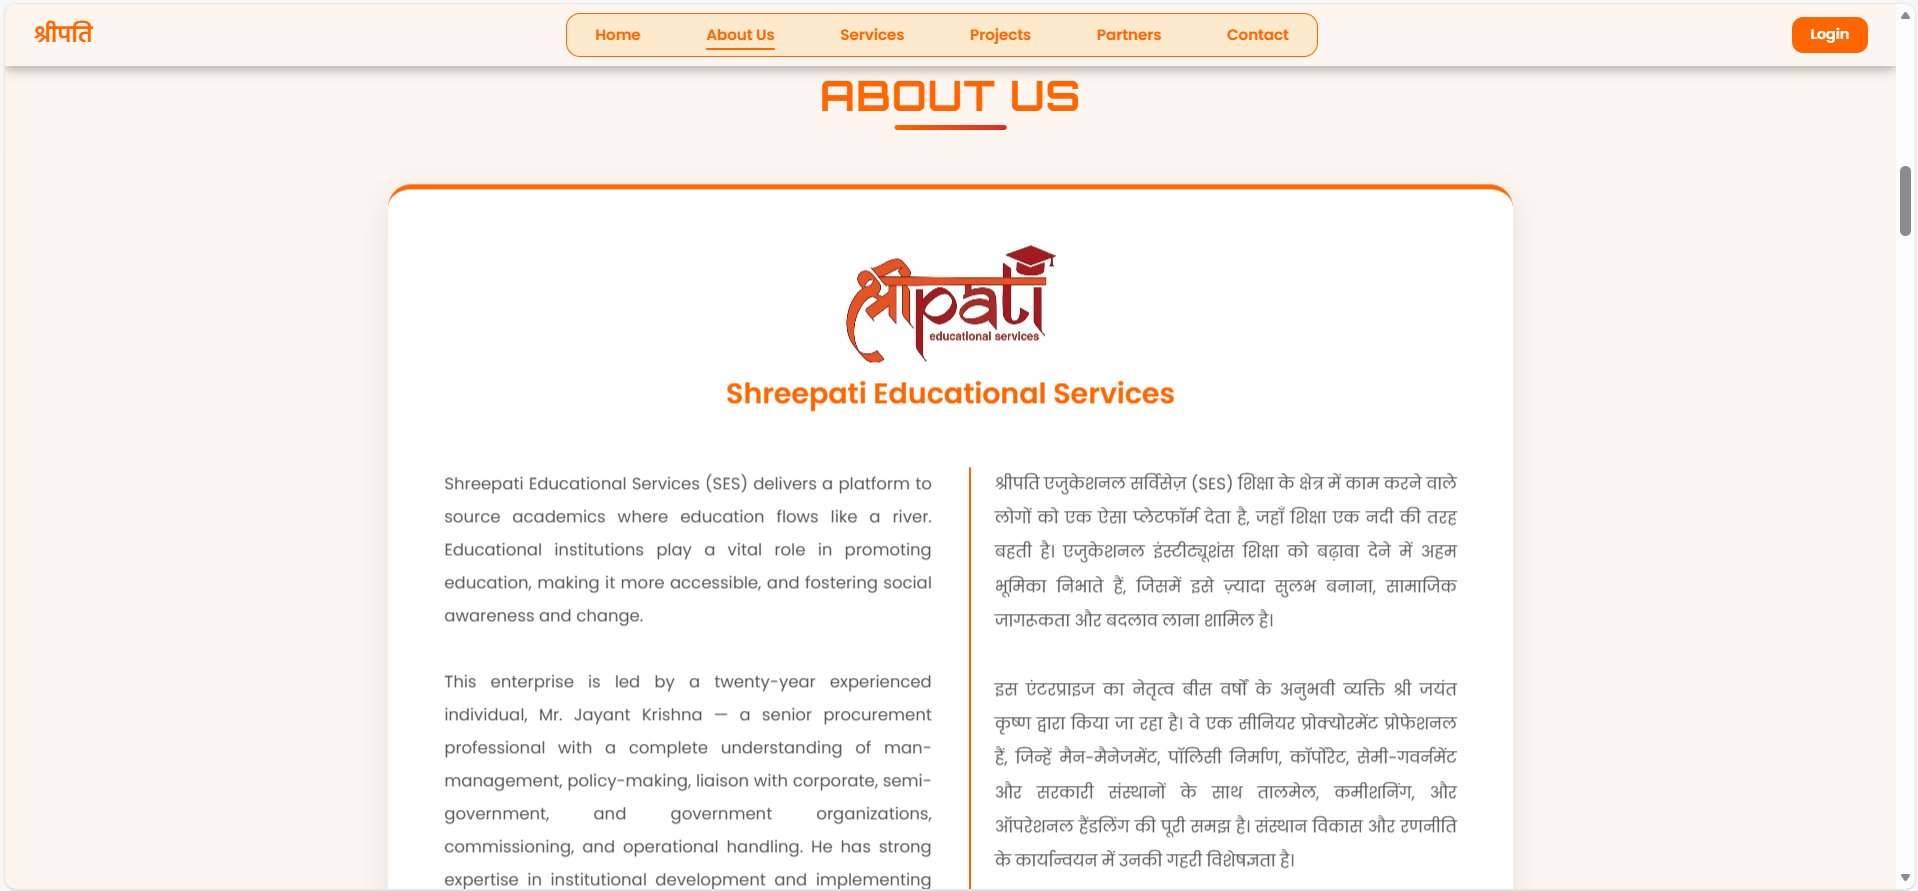
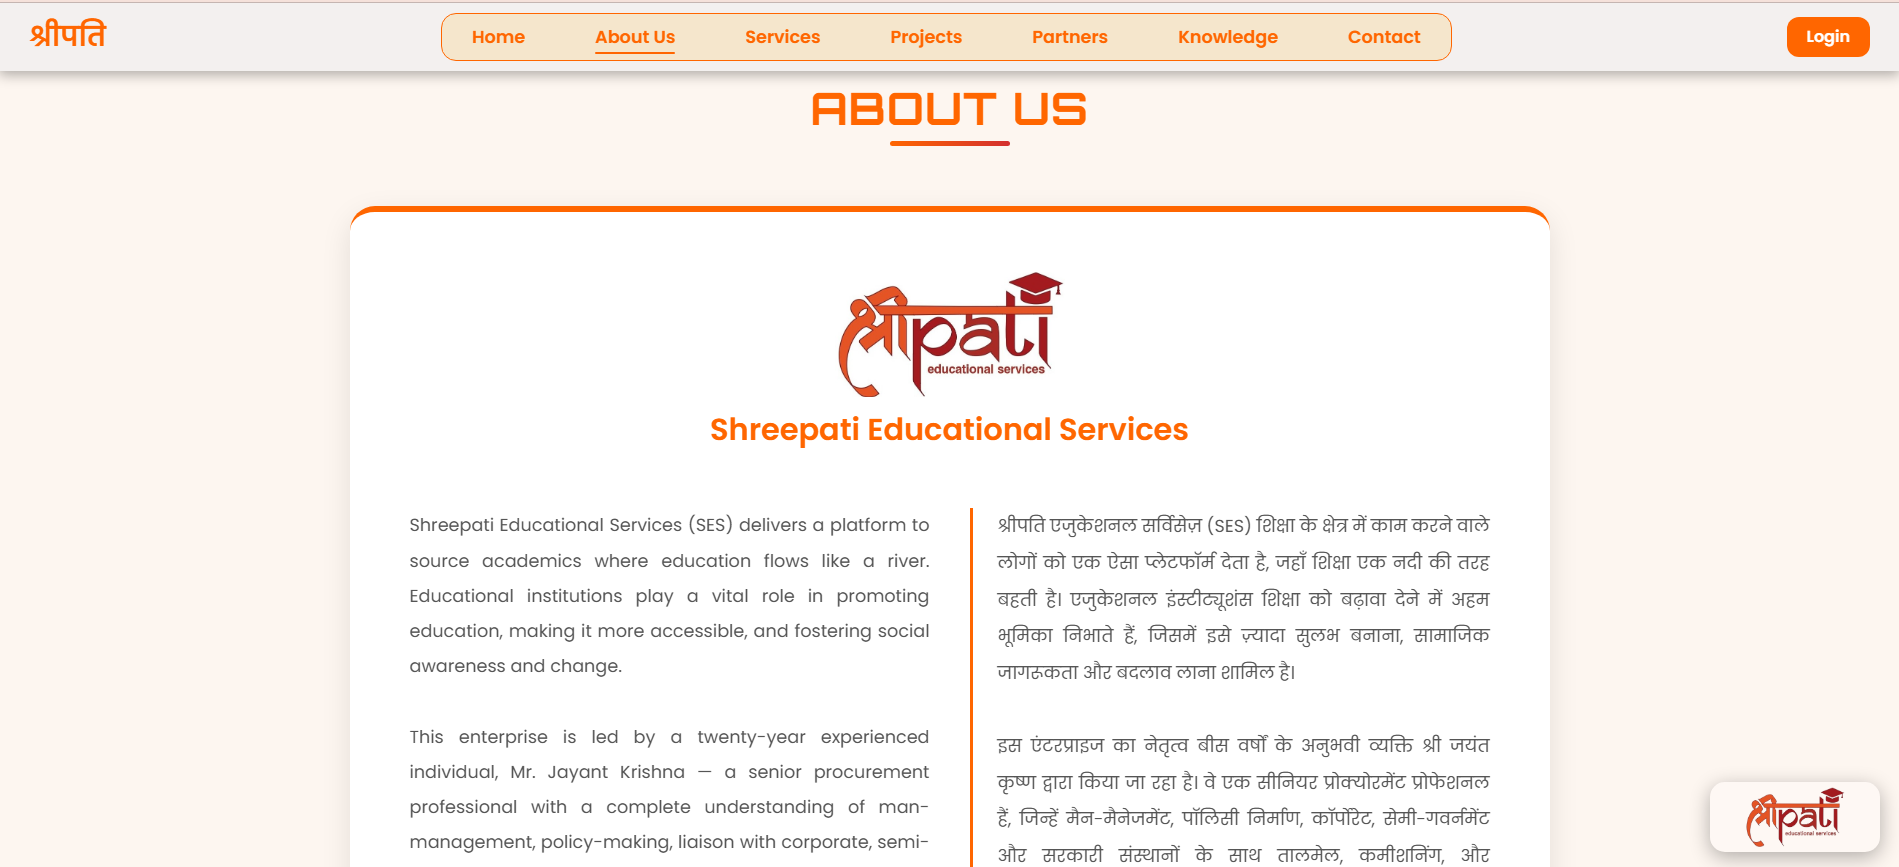
Added photos in the ses webiste page and certificate added in blog

diff --git a/src/pages/SesWebsitePage.jsx b/src/pages/SesWebsitePage.jsx
@@ -21,9 +21,14 @@ import { SiTailwindcss, SiExpress, SiPostgresql } from "react-icons/si";
 import websiteImg from "../assets/logoshreepati.png";
 import homepageImg from "../assets/home.png";
 import aboutImg from "../assets/about.png";
-import coursesImg from "../assets/services.png";
-import contactImg from "../assets/partners.png";
+import serviceImg from "../assets/services.png";
+import partnerImg from "../assets/partner.png";
 import founderImg from "../assets/founder.jpg";
+import footerImg from "../assets/footer.png";
+import insightImg from "../assets/insight.png";
+import projectImg from "../assets/project.png";
+import contactImg from "../assets/contact.png";
+
 
 // --- Styles ---
 const tableStyle = {
@@ -60,8 +65,12 @@ const handleGlow = (e, isHover) => {
 const projectOverview = [
   { img: homepageImg, title: "Home Page", desc: "Landing section introducing the consultancy with services and mission." },
   { img: aboutImg, title: "About Page", desc: "Explains the consultancy’s history, goals, and guidance philosophy." },
-  { img: coursesImg, title: "Services Page", desc: "Displays available educational and admission guidance services." },
-  { img: contactImg, title: "Partners Page", desc: "Collaboration of partners for upliftement of the company." },
+  { img: serviceImg, title: "Services Page", desc: "Displays available educational and admission guidance services." },
+  { img: partnerImg, title: "Partners Page", desc: "Collaboration of partners for upliftement of the company." },
+  { img: projectImg, title: "Project Page", desc: "Projects showcases by shreepati educational services" },
+  { img: insightImg, title: "Knowledge & Insight page", desc: "Company insight videos done by shreepati" },
+  { img: contactImg, title: "Contact Page", desc: "Contact page having phone number and respect address of the office" },
+  { img: footerImg, title: "Footer", desc: "Footer page having social links where users can talk with the owner" },
 ];
 
 const SesWebsitePage = () => {

diff --git a/src/pages/ExpenseTrackerPage.jsx b/src/pages/ExpenseTrackerPage.jsx
@@ -32,6 +32,7 @@ import homepageImg from "../assets/tracker1.jpg";
 import aboutImg from "../assets/tracker2.jpg";
 import serviceImg from "../assets/tracker3.jpg";
 import bookingImg from "../assets/tracker4.jpg";
+import certificate from "../assets/mobile.png";
 
 // Cloudinary Imports
 import { Cloudinary } from "@cloudinary/url-gen";
@@ -483,7 +484,23 @@ const ExpenseTrackerPage = () => {
   </div>
 </div>
 
-  
+        {/* Certificate */}
+<div style={{ maxWidth: "900px", margin: "0 auto 4rem", textAlign: "center" }}>
+  <h2 style={{ color: "#FF3B3B", marginBottom: "1rem" }}>Certificate</h2>
+  <img
+    src={certificate}
+    alt="Certificate"
+    style={{
+      width: "130%",
+      maxWidth: "600px",
+      height: "450px",
+      borderRadius: "12px",
+      objectFit: "cover",
+    }}
+    className="certificate-img"
+  />
+</div>
+
 
       {/* Summary */}
       <div style={{ maxWidth: "900px", margin: "0 auto 4rem" }}>

diff --git a/src/pages/Blog.jsx b/src/pages/Blog.jsx
@@ -88,7 +88,7 @@ const blogPosts = [
       "An App for tracking their expenses regularly and saving their expenses",
     img: tracker,
     tech: [
-     { icon: <SiExpo />, color: "#000000ff" },
+     { icon: <SiExpo />, color: "rgb(255, 238, 238)" },
     ],
     link: "/expensepage",
   }, 
